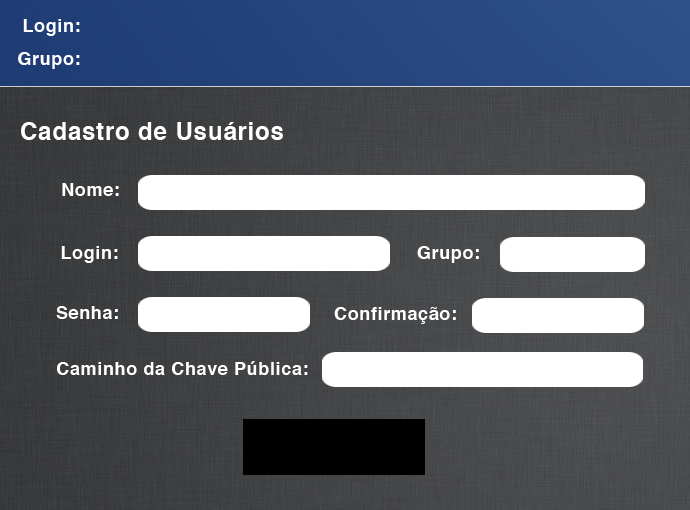
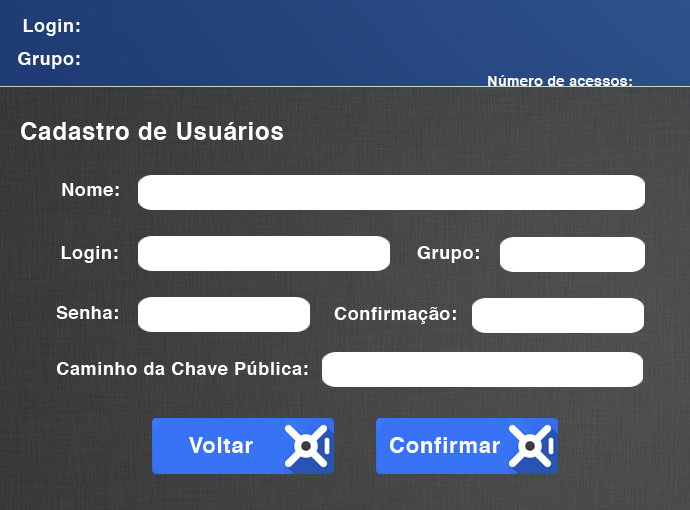
PainelSenha

Changed region(s): [[0.213, 0.7941, 0.8217, 0.9412], [0.7, 0.1471, 0.913, 0.1765]]

diff --git a/src/Interface/PainelSenha.java b/src/Interface/PainelSenha.java
@@ -1,0 +1,68 @@
+package Interface;
+
+import java.awt.Color;
+import java.awt.Dimension;
+import java.awt.Font;
+import java.awt.Graphics;
+import java.awt.image.BufferedImage;
+import java.io.File;
+import java.io.IOException;
+
+import javax.imageio.ImageIO;
+import javax.swing.JButton;
+import javax.swing.JLabel;
+import javax.swing.JPanel;
+import javax.swing.JTextField;
+import javax.swing.SwingConstants;
+
+import Tratadores.TratadorBotoes;
+
+public class PainelSenha extends JPanel {
+
+	public final int LARG_DEFAULT = 690;
+	public final int ALT_DEFAULT = 510;
+	public final int COORD_Y=110;
+	private BufferedImage i;
+	TratadorBotoes tb;
+	JTextField login;
+	JLabel aviso;
+
+	public PainelSenha() {
+		
+		tb = new TratadorBotoes();
+
+		try
+		{
+			i=ImageIO.read(new File("confirmar.png"));
+		}
+		catch(IOException e)
+		{
+			System.out.println(e.getMessage());
+			System.exit(1);
+		}
+		
+		Font font = new Font("Helvetica", Font.BOLD,18);
+				
+		CloseButton close = new CloseButton();
+		close.setBorder(javax.swing.BorderFactory.createEmptyBorder());
+		close.setBounds(314, 447, 45, 45);
+		close.setVisible(true);
+		close.setName("Fechar");
+		close.addMouseListener(tb);
+		this.add(close);
+		
+		this.setLayout(null);
+		Dimension size = new Dimension(i.getWidth(null), i.getHeight(null));
+		setPreferredSize(size);
+		setMinimumSize(size);
+		setMaximumSize(size);
+		setSize(size);
+
+	}
+
+	protected void paintComponent(Graphics g) {
+	    super.paintComponent(g);
+	    // paint the background image and scale it to fill the entire space
+	    g.drawImage(i, 0, 0, getWidth(), getHeight(), this);
+	  }
+}

diff --git a/src/Interface/FramePrincipal.java b/src/Interface/FramePrincipal.java
@@ -14,13 +14,14 @@ public class FramePrincipal extends JFrame {
 	
 	private PainelPrincipal pp;
 	private PainelCadastro pc;
+	private PainelSenha ps;
 	public User user;
+	String version = "0.1";
 	
 	private static final FramePrincipal INSTANCE = new FramePrincipal();
 	
 	private FramePrincipal() {
-		Version v = new Version();
-		this.setTitle("SafeVault v."+v.getVersion());
+		this.setTitle("SafeVault v"+version);
 		this.setBounds(0, 0, LARG_DEFAULT, ALT_DEFAULT);
 		this.setLocationRelativeTo(null);
 		this.setDefaultCloseOperation(EXIT_ON_CLOSE);
@@ -42,6 +43,8 @@ public class FramePrincipal extends JFrame {
 		
 		if (pp!=null)
 			this.remove(pp);
+		else if (ps!=null)
+			this.remove(ps);
 		
 		try {
 			pc = new PainelCadastro();
@@ -57,10 +60,24 @@ public class FramePrincipal extends JFrame {
 		
 		if (pc!=null)
 			this.remove(pc);
+		else if (ps!=null)
+			this.remove(ps);
 		
 		this.repaint();
 		this.add(pp);
 		
+	}
+	
+public void senhaPanel() {
+		
+		if (pc!=null)
+			this.remove(pc);
+		else if (pp!=null)
+			this.remove(pp);
+		
+		ps = new PainelSenha();
+		this.repaint();
+		this.add(ps);
 	}
 	
 }

diff --git a/src/Interface/PainelCadastro.java b/src/Interface/PainelCadastro.java
@@ -115,19 +115,18 @@ public class PainelCadastro extends JPanel {
 
 		//defaultBorder = textnome.getBorder();
 
-		JButton voltar = new JButton("Voltar");
+		ActionButton voltar = new ActionButton("voltar.png");
 		voltar.setName("Voltar");
-		voltar.setFocusable(false);
-		voltar.setBounds(126, 241, 150, 30);
+		voltar.setBounds(152, 418, 182, 56);
 		voltar.setVisible(true);
-		//this.add(voltar);
+		this.add(voltar);
 		voltar.addMouseListener(tt);
 
 		// Confirmar
 
-		ConfirmaButton confirmar = new ConfirmaButton();
+		ActionButton confirmar = new ActionButton("confirmar.png");
 		confirmar.setName("Confirmar");
-		confirmar.setBounds(243, 419, 182, 56);
+		confirmar.setBounds(376, 418, 182, 56);
 		confirmar.setVisible(true);
 		this.add(confirmar);
 		confirmar.addMouseListener(tt);

diff --git a/src/Interface/ActionButton.java b/src/Interface/ActionButton.java
@@ -8,15 +8,15 @@ import java.io.IOException;
 import javax.imageio.ImageIO;
 import javax.swing.JButton;
 
-public class ConfirmaButton extends JButton {
+public class ActionButton extends JButton {
 	
 	private BufferedImage i;
 
-	public ConfirmaButton()
+	public ActionButton(String caminho)
 	{
 		try
 		{
-			i=ImageIO.read(new File("confirmar.png"));
+			i=ImageIO.read(new File(caminho));
 		}
 		catch(IOException e)
 		{

diff --git a/src/Tratadores/TratadorBotoes.java b/src/Tratadores/TratadorBotoes.java
@@ -33,7 +33,7 @@ public class TratadorBotoes implements MouseListener {
 			try {
 				User user = new User();
 				if(user.buscarUser(login)) {
-					JOptionPane.showMessageDialog(frame, "Encontrado!", "", JOptionPane.PLAIN_MESSAGE);
+					fp.senhaPanel();
 				} else {
 					TriesDAO tDAO = new TriesDAO();
 					tDAO.insereTentativa(login);
